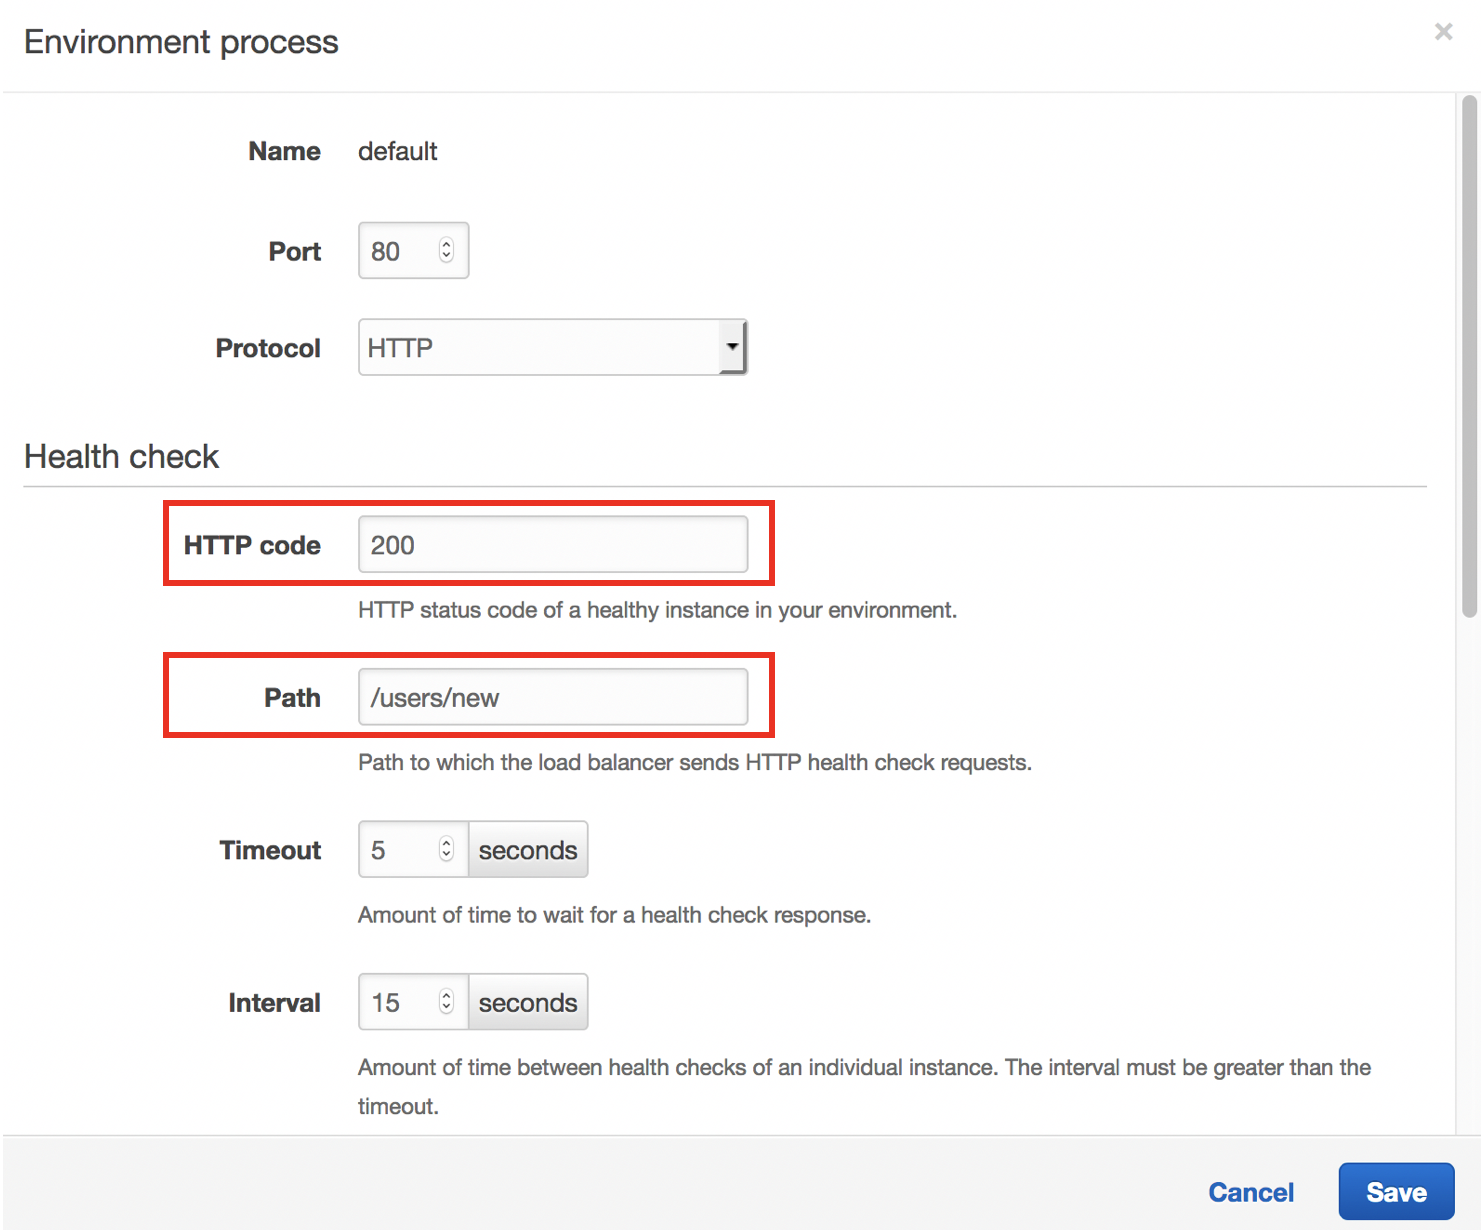
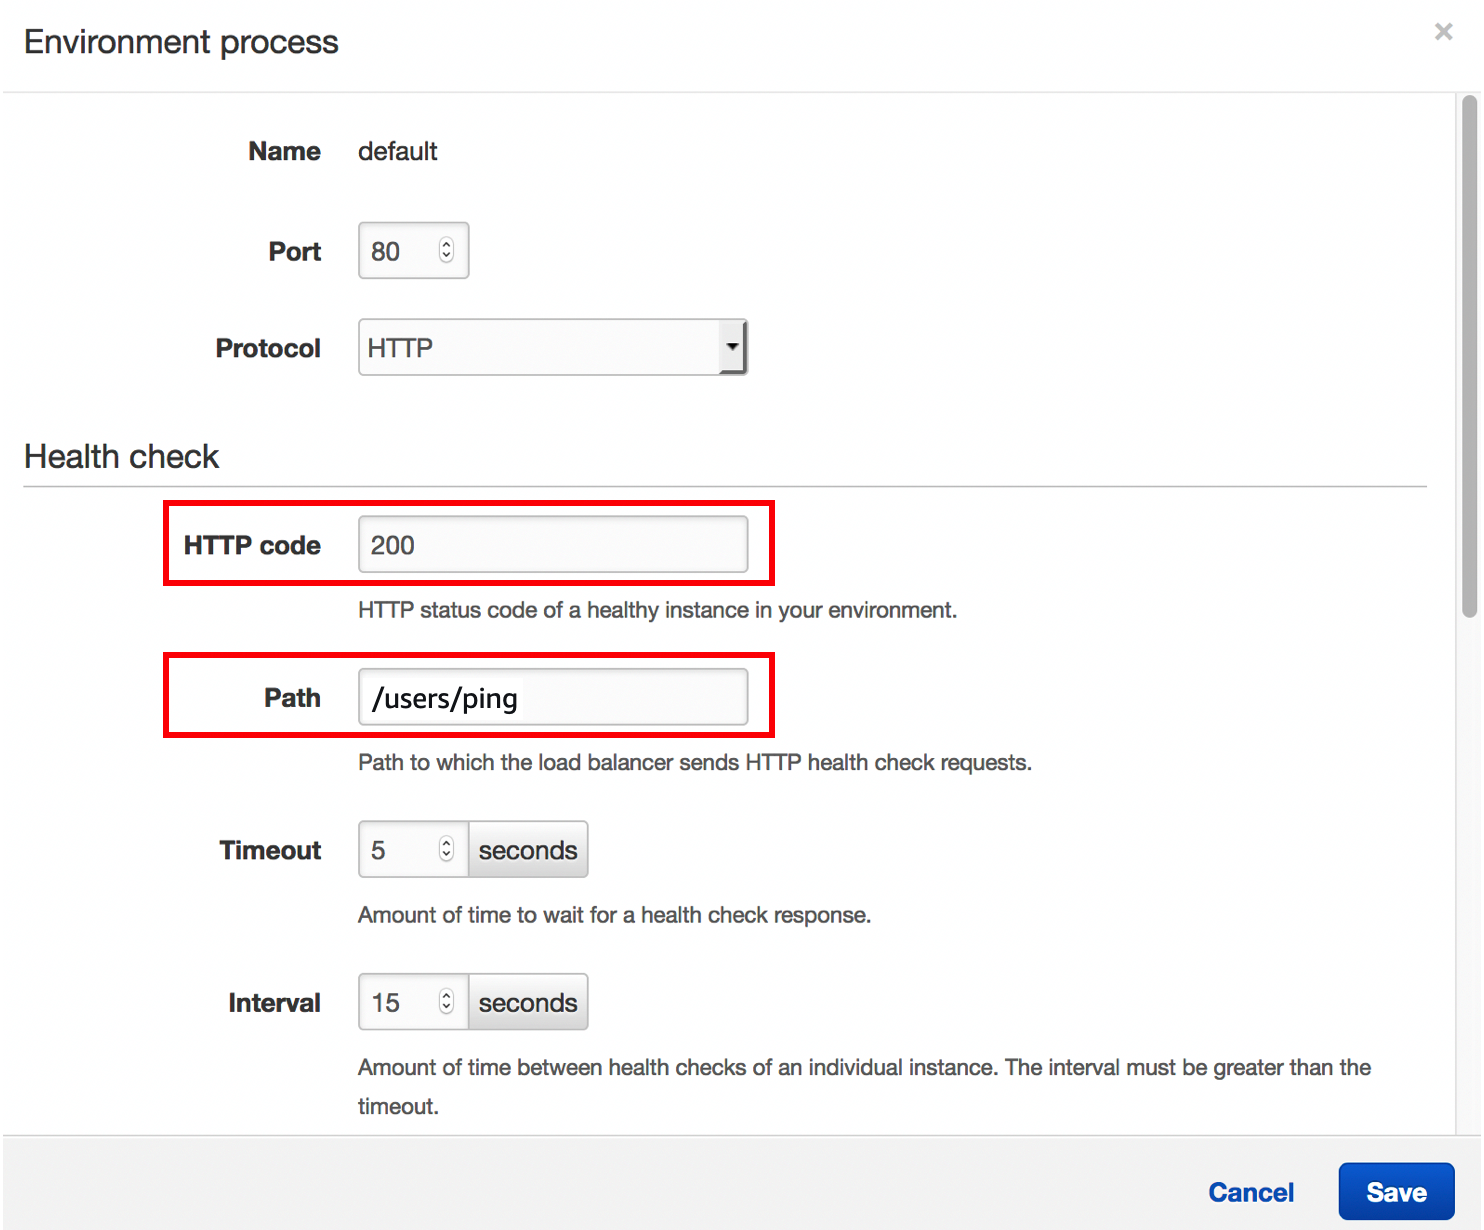
Complete lab guide 1,2 draft version

diff --git a/lab-guide/LAB02.md b/lab-guide/LAB02.md
@@ -270,14 +270,8 @@ If the previous TASK was successfully completed, you will see the following scre
 
 Now, let's deploy our application.
 
-54. Run following command to build front-end application.
-```console
 
-```
-
-
-
-54. Click the **Configuration** button in the left navigation menu.
+54. Setup ElasticBeanstalk configuration to deploy back-end application.  Click the **Configuration** button in the left navigation menu.
 
     <img src=./images/lab02-task5-eb-configuration.png width=300>
 
@@ -294,28 +288,23 @@ Now, let's deploy our application.
 * ***Name*** : ***Value***
 * `APP_HOST` : `0.0.0.0`
 * `APP_PORT` : `5000`
-* `DB_URL` : `mysql+pymysql://serverless:workshop@<YOUR DATABASE ENDPOINT>/ebdb?charset=utf8`
+* `DATABASE_URL` : `mysql+pymysql://movingto:serverless@<YOUR DATABASE ENDPOINT>/ebdb?charset=utf8`
   * **NOTE**: Replace ***`<YOUR DATABASE ENDPOINT>`*** to **your own EndPoint** value which copied previous step. 
-  * For example : `mysql+pymysql://serverless:workshop@`aa1is6q2iidf84x.cjukz33spdko.ap-southeast-1.rds.amazonaws.com:3306`/ebdb?charset=utf8`
+  * For example : `mysql+pymysql://movingto:serverlessp@`aa1is6q2iidf84x.cjukz33spdko.ap-southeast-1.rds.amazonaws.com:3306`/ebdb?charset=utf8`
 * `EFS_ID` : `<YOUR FILE SYSTEM ID>`
   * We already copied it to notepad in **TASK 2**.
   * For example : fs-5d3e921c
-* `ELCACHE_EP` : `<YOUR ELASTICACHE_ENDPOINT>`
-  * We already copied it to notepad in **TASK 3**.
-  * For example (Exclude the port number): `session-store.ttvhbi.ng.0001.apse1.cache.amazonaws.com`
 * `FLASK_SECRET` : `serverless`
   * This value will be used for Flask app's SECRET_KEY.
-* `GMAPS_KEY` : `<GMAPS_KEY>`
-  * You already get this key from **instructor**.
 * `UPLOAD_FOLDER` : `/mnt/efs`
-* `LOG_FILE_PATH` : `/opt/python/log`
 
     <img src=./images/lab02-task5-eb-sw-env-var-1.png width=500>
 
-* You can check the `LAB02/CloudAlbum/cloudalbum/config.py` file about above variables.
+* You can check the `LAB02/backend/cloudalbum/config.py` file about above variables.
 
 
 58. Click **Apply** button.
+
 
 59. Click the **Configuration** button in the left navigation menu.
 
@@ -327,7 +316,7 @@ Now, let's deploy our application.
 
 62. Configure **Health check** variables.
 * **HTTP code** : `200`
-* **Path** : `/users/new`
+* **Path** : `/users/ping`
 
      <img src=./images/lab02-task5-eb-alb-health-2.png width=500>
 
@@ -336,8 +325,73 @@ Now, let's deploy our application.
 
 64. Next, click **Apply** button.
 
-65. You can download the application to your laptop as a ZIP file, from the below URL:
- <https://github.com/aws-kr-tnc/moving-to-serverless-workshop-1d/raw/master/resources/cloudalbum_v1.0.zip>
+
+65. Let's examine `.ebextensions/cloudalbum.config` in the backend application root directory.
+```yaml
+packages:
+  yum:
+    amazon-efs-utils : []
+
+files:
+  "/app/cloudalbum/efs_setup.sh":
+    mode: "000755"
+    owner: root
+    group: root
+    content: |
+      #!/bin/bash
+
+      # Commands that will be run on containter_commmands
+      # Here the container variables will be visible as environment variables.
+      . /opt/elasticbeanstalk/support/envvars
+
+      ## EFS mount
+      mkdir -p /mnt/efs
+      
+      mountpoint /mnt/efs
+      
+      if [ $? -eq 0 ] ; then
+        echo "Already mounted"
+      
+      else
+        mount -t efs $EFS_ID:/ /mnt/efs
+      fi
+
+      chown -R wsgi:wsgi /mnt/efs
+      chown -R wsgi:wsgi /app/cloudalbum
+
+container_commands:
+  efs_setup:
+    command: /app/cloudalbum/efs_setup.sh
+  01_wsgipass:
+    command: 'echo "WSGIPassAuthorization On" >> ../wsgi.conf'
+
+option_settings:
+  aws:elasticbeanstalk:application:environment:
+    LANG: ko_KR.UTF-8
+    LC_ALL: ko_KR.UTF-8
+
+  aws:elasticbeanstalk:container:python:
+    WSGIPath: wsgi.py
+
+```
+* You can configure ElasticBeanstalk environment through `.ebextensions`.
+  * Install EFS utility package.
+  * Generate `efs_setup.sh` to mount EFS as a shared storage.
+  * Configure `WSGIPassAuthorization On`.
+    * The WSGIPassAuthorization directive can be used to control whether HTTP authorisation headers are passed through to a WSGI application in the HTTP_AUTHORIZATION variable of the WSGI application environment when the equivalent HTTP request headers are present.
+  * Specifies the WSGI executable script.
+
+
+66. You can use `cloudalbum-v1.0.zip` file to deploy ElasticBeanstalk. Refer to below link.
+ * https://github.com/aws-kr-tnc/moving-to-serverless-renew/raw/master/resources/cloudalbum_v1.0.zip
+
+* However, you can make a zip file using following command.
+  
+```console
+mkidr ~/environment/deploy
+cd ~environment/moving-to-serverless-renew/LAB02/backend/
+zip -r ~/environment/deploy/cloudalbum-v1.0.zip .
+```
 
 66. In the **Dashboard**, click **Upload and Deploy** button.
 
@@ -345,14 +399,85 @@ Now, let's deploy our application.
 
     <img src=./images/lab02-task5-deploy.png width=500>
 
-68. Click **Deploy** button.
+68. Click **Deploy** button. When the deployment completes successfully, you will see the 'Health OK' message in your browser.
 
-69. After deploy operation, visit the our application URL. you can see our application in your browser like below.
+69. You can test the Application by calling the following URL.
+ * `http://<ElasticBeanstalk URL>/users/ping`
 
-    <img src=./images/lab02-task5-cloudalbum.png width=500>
+
+70. Now, let's run following command to build front-end application.
+
+* Before, build we need to modify `.env` file to change backend server end point. We will use ElasticBeastalk URL as a backend server end point.
+
+* open `~environment/moving-to-serverless-renew/LAB01/frontend/cloudalbum/.env` and modify it like below.
+```console
+// AXIOS api request time-out
+VUE_APP_TIMEOUT=15000
+
+//For test/development 
+//VUE_APP_API=http://127.0.0.1:5000
+
+//For deployment 
+VUE_APP_API=http://<Your Elastic Beanstalk URL>
+```
+
+* Replace `<Your Elastic Beanstalk URL>` to your own.
+
+71. Let's build front-end application.
+
+```console
+cd ~/environment/moving-to-serverless-renew/LAB01/frontend/cloudalbum/
+npm run build
+```
+* You can see similar messages below, if you complete the build.
+```console
+...
+...
+...
+ DONE  Build complete. The dist directory is ready to be deployed.
+ INFO  Check out deployment instructions at https://cli.vuejs.org/guide/deployment.html
+```
+
+72. Now, move front-end application to Amazon S3.
+```console
+aws s3 mb s3://frontend-<your-initial>
+```
+
+* You can see the message like below
+```console
+make_bucket: frontend-<your-initial>
+```
+
+* Copy front-end to S3 bucket and enable `Static website hosting`.
+```console
+cd ~/environment/moving-to-serverless-renew/LAB01/frontend/cloudalbum/dist
+aws s3 sync . s3://frontend-<your-initial>/ --acl public-read
+aws s3 website s3://frontend-<your-initial>/ --index-document index.html
+``` 
+
+73. Connect to front-end via your browser. Here is S3 URL rule pattern.
+ * http://<BUCKER NAME>.s3-website-<REGION CODE>.amazonaws.com
+
+ * For example, if your frontend bucket name is 'frontend-1234' and the region you use is Singapore (ap-southeast-1):
+   * http://frontend-1234.s3-website-ap-southeast-1.amazonaws.com
+
+ * If everything are fine, you can see the frontend like below.
+
+ <img src="./images/lab01-08.png" width=500>
 
 
-70. If the deployment is successful, Let's change your mimimum capacity configuration. In the Configuration menu, click **Modify** button of **Capacity** section.
+74. Test the following features to make sure your application is working well.
+
+<img src=./images/lab01-02.png width=800>
+
+* Sign in / up
+* Upload Sample Photos
+* Check the Photo Map
+* Delete photo
+* Sign out
+
+
+75. If it works fine, let's change your mimimum capacity configuration. In the Configuration menu, click **Modify** button of **Capacity** section.
 
 
 71. In the **Modify capacity** page, change the atttribute of AutoScalingGroup ***Min*** value from 1 to 2. (or what you want..)
@@ -371,16 +496,6 @@ Now, let's deploy our application.
 ## TASK 6. Perform application test
 
 74. Perform application test.
-<img src=./images/lab01-02.png width=800>
-
-* Sign in / up
-* Upload Sample Photos
-* Sample images download here
-  *  https://d2r3btx883i63b.cloudfront.net/temp/sample-photo.zip
-* Look your Album
-* Change Profile
-* Find photos with Search tool
-* Check the Photo Map
 
 
 ## Options : Investigate the application changes

diff --git a/lab-guide/LAB01.md b/lab-guide/LAB01.md
@@ -167,7 +167,7 @@ VUE_APP_TIMEOUT=15000
 VUE_APP_API=http://127.0.0.1:5000
 
 //For deployment 
-//VUE_APP_API=<DEPLOYED_SERVER>
+//VUE_APP_API=http://<DEPLOYED_SERVER>
 
 ```
 
